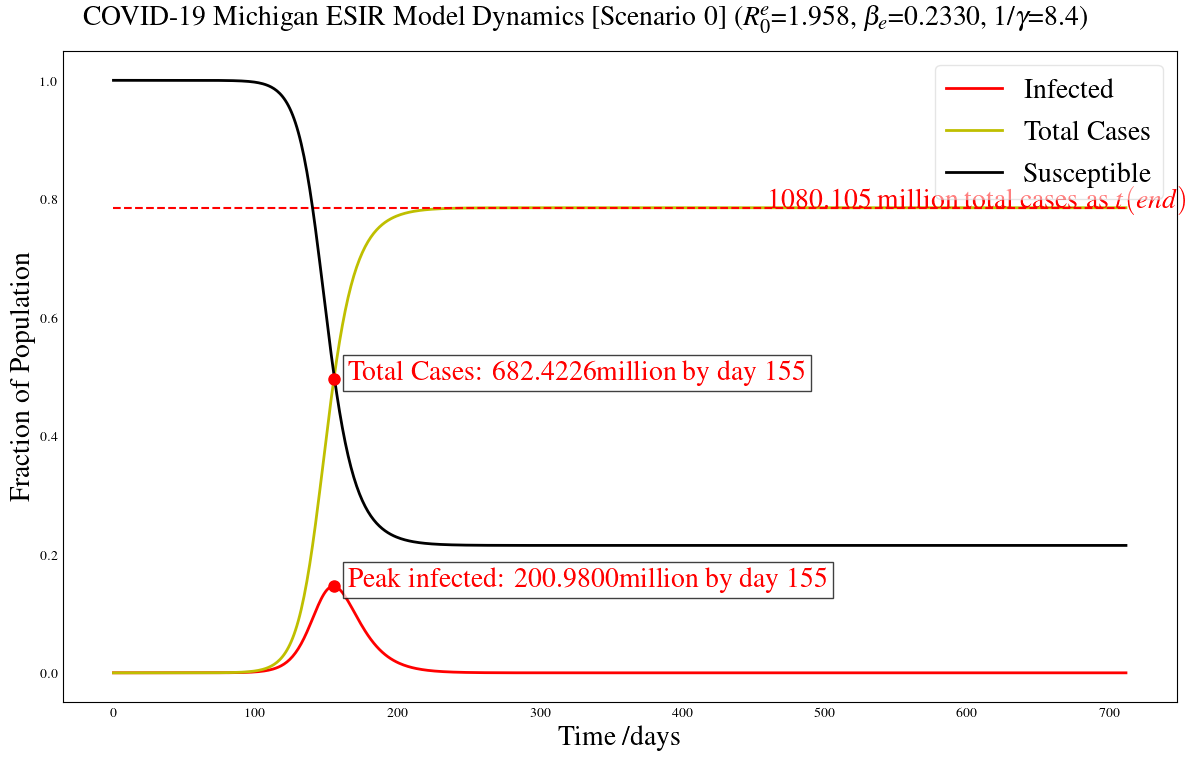
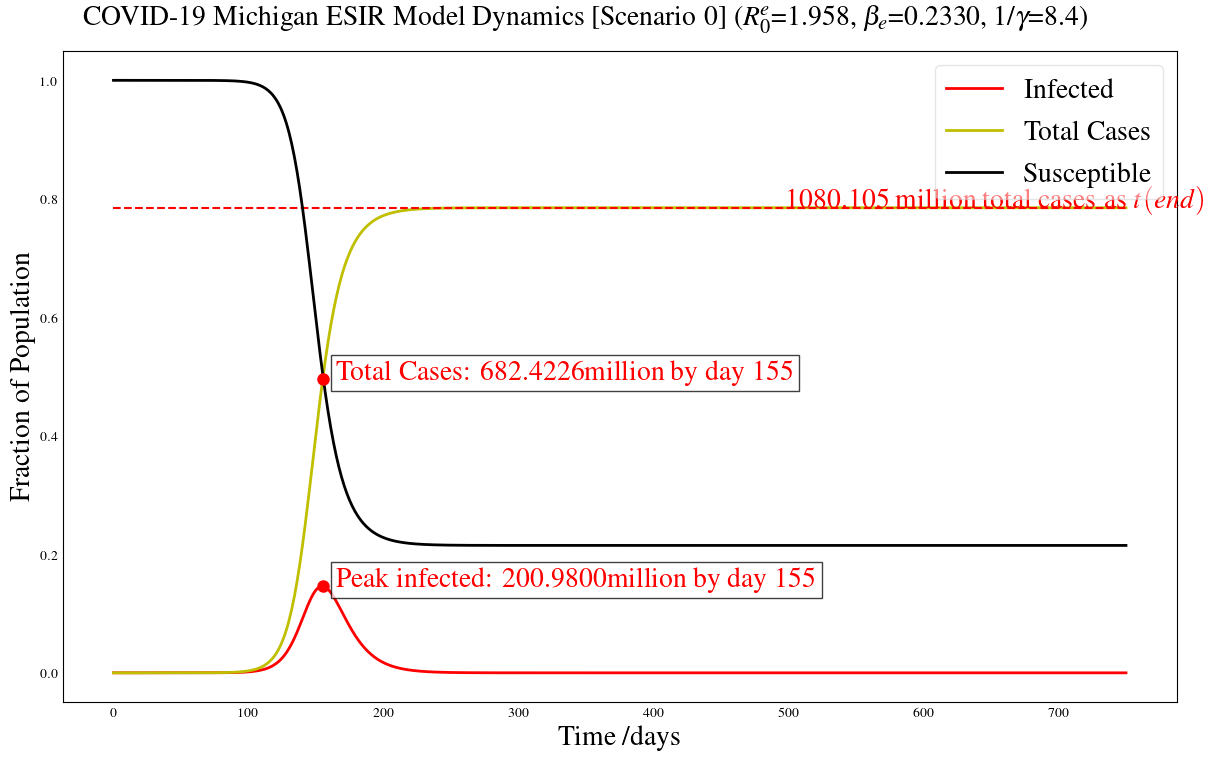
adding changes

diff --git a/bayes_probe_sir/untitled0.py b/bayes_probe_sir/untitled0.py
@@ -1,0 +1,65 @@
+# -*- coding: utf-8 -*-
+"""
+Created on Fri Apr 10 16:46:50 2020
+
+@author: AJShah
+"""
+
+from scipy.stats import poisson
+import matplotlib.pyplot as plt
+import seaborn as sns
+from itertools import product
+import numpy as np
+
+def solve_prevalence(N_tests, threshold = 0.01):
+    #Solve for the prevalence where the probability of non-detection falls
+    #below threshold
+    
+    cdf_val = 1-threshold
+    
+    prevalence = poisson.ppf(cdf_val, 1/p)
+    return prevalence
+    
+    
+
+if __name__ == '__main__':
+    
+    N = 50e-6
+    prevalence = solve_prevalence(20000)
+    
+    print('The prevalence must be more than {prevalence} to have less than 1% chance of missing cases')
+    
+    '''
+    N = 50e6
+    
+    prevalence = np.logspace(np.log10(1e-9), np.log10(1), 10000)
+    N_tests = np.logspace(1, 5, 5)
+    P_zero = {}
+    
+    for n in N_tests:
+        P_zero[n] = [1-poisson.cdf(n,1/p) for p in prevalence]
+    
+    with sns.plotting_context('poster'):
+        plt.figure(figsize = [15,10])
+        for n in N_tests:
+            plt.semilogx(prevalence*N, P_zero[n], label = f'{int(n)} Tests')
+        plt.legend()
+        plt.xlabel('Number of cases in India')
+        plt.ylabel('Probability of zero positive results')
+        plt.title('Case Detection with Random Testing')
+        
+    prevalence = np.logspace(np.log10(1e-9), np.log10(1), 1000)
+    N_tests = np.logspace(0,5,100)
+    
+    vals = list(product(prevalence, N_tests))
+    p_zero = np.zeros((len(prevalence), len(N_tests)))
+    
+    for (i,p) in enumerate(prevalence):
+        for (j,n) in enumerate(N_tests):
+            p_zero[i,j] = 1 - poisson.cdf(n,1/p)
+    
+    plt.figure(figsize = [15,10])
+    plt.contourf(N_tests, prevalence, p_zero)
+    plt.xscale('log')
+    plt.yscale('log')
+    '''

diff --git a/sensitivity_michiganESIR_model.py b/sensitivity_michiganESIR_model.py
@@ -18,8 +18,8 @@ N = 1375987036
 # values = [0.8,0.6,0.2, 1]
 I0 = 25
 R0 = 3
-days = 712
-days = 90
+days = 750
+#days = 90
 
 #R0 = 2.2, gamma = 1/7 no error
 
@@ -332,7 +332,7 @@ if __name__ == '__main__':
             show_S        = 0
             show_T        = 1
             plot_peaks    = 1
-            beta_error    = int(err*100)
+            beta_error    = err
             Plotoptions   = plot_all, show_S, show_T, show_R, show_analytic_limit, plot_peaks, x_axis_offset, y_axis_offset, beta_error
             text_error    = r"$\beta \pm %1.2f \beta $"%beta_error
             plotSIR_evolutionErrors(txt_title, SIRparams, S_samples, I_samples, R_samples, Plotoptions, text_error, store_plots, file_extensions[0])
